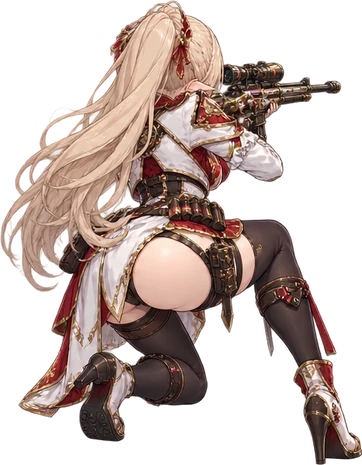
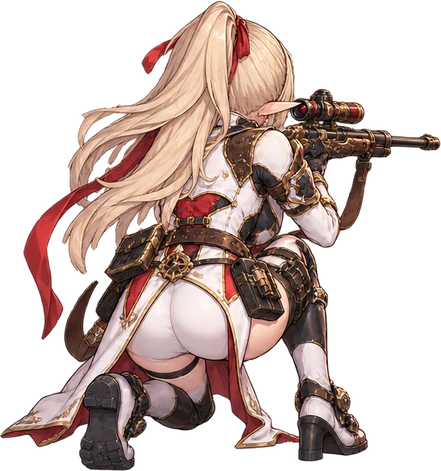
[claude] 엘프 저격수 4포즈 교체(앉아 장전), 포즈 교체 도구, 로그
Claude-Session: https://claude.ai/code/session_01SeZdEYanRwNa7A4etoFxwb

diff --git a/game/index.html b/game/index.html
@@ -20,7 +20,7 @@ let bgB=bg;   // 전투 배경(장마다 바뀜). 메뉴 배경은 bg 그대로
 // 뒷모습 그림이 아직 없어서 뒤쪽이 보이는 포즈를 임시로 3명에게 공통 사용
 const heroImg=loadImg('char1.png');
 // 캐릭터별 포즈 그림 (서기/앉기/장전/쓰러짐). ax=몸 중심, mx,my=총구 위치
-const META={"elf":{"stand":{"w":553,"h":744,"ax":158,"mx":552,"my":118},"kneel":{"w":362,"h":465,"ax":176,"mx":341,"my":86},"reload":{"w":258,"h":744,"ax":117,"mx":150,"my":300},"down":{"w":348,"h":356,"ax":174,"mx":174,"my":200}},"dwarf":{"stand":{"w":533,"h":745,"ax":213,"mx":532,"my":97},"reload":{"w":350,"h":550,"ax":177,"mx":177,"my":220},"kneel":{"w":415,"h":426,"ax":207,"mx":414,"my":80},"down":{"w":782,"h":278,"ax":379,"mx":379,"my":111}},"human":{"stand":{"w":451,"h":745,"ax":185,"mx":450,"my":191},"kneel":{"w":430,"h":438,"ax":204,"mx":429,"my":130},"reload":{"w":372,"h":492,"ax":200,"mx":200,"my":197},"down":{"w":665,"h":230,"ax":331,"mx":331,"my":92}},"fox":{"stand":{"w":452,"h":745,"ax":192,"mx":452,"my":115},"kneel":{"w":403,"h":444,"ax":187,"mx":403,"my":107},"reload":{"w":319,"h":497,"ax":168,"mx":168,"my":199},"down":{"w":667,"h":254,"ax":317,"mx":317,"my":102}},"goblin":{"stand":{"w":359,"h":744,"ax":186,"mx":358,"my":121},"kneel":{"w":387,"h":466,"ax":196,"mx":386,"my":134},"reload":{"w":384,"h":409,"ax":216,"mx":216,"my":163},"down":{"w":612,"h":225,"ax":330,"mx":330,"my":90}},"harpy":{"stand":{"w":435,"h":744,"ax":220,"mx":434,"my":105},"kneel":{"w":424,"h":479,"ax":198,"mx":422,"my":103},"reload":{"w":436,"h":468,"ax":240,"mx":239,"my":187},"down":{"w":704,"h":291,"ax":380,"mx":380,"my":116}},"lamia":{"stand":{"w":434,"h":744,"ax":173,"mx":433,"my":106},"kneel":{"w":455,"h":417,"ax":199,"mx":454,"my":103},"reload":{"w":368,"h":472,"ax":213,"mx":213,"my":188},"down":{"w":676,"h":213,"ax":331,"mx":331,"my":85}},"fmedic":{"stand":{"w":389,"h":744,"ax":190,"mx":387,"my":120},"kneel":{"w":417,"h":482,"ax":205,"mx":415,"my":132},"reload":{"w":364,"h":436,"ax":179,"mx":178,"my":174},"down":{"w":644,"h":225,"ax":352,"mx":351,"my":90}},"mwolf":{"stand":{"w":445,"h":744,"ax":280,"mx":443,"my":107},"kneel":{"w":443,"h":412,"ax":244,"mx":406,"my":110},"reload":{"w":362,"h":351,"ax":158,"mx":157,"my":140},"down":{"w":329,"h":232,"ax":182,"mx":182,"my":92}},"mhuman":{"stand":{"w":435,"h":744,"ax":270,"mx":434,"my":91},"kneel":{"w":428,"h":384,"ax":241,"mx":418,"my":90},"reload":{"w":382,"h":334,"ax":174,"mx":174,"my":133},"down":{"w":324,"h":238,"ax":176,"mx":176,"my":95}},"mdwarf":{"stand":{"w":508,"h":744,"ax":273,"mx":507,"my":75},"kneel":{"w":436,"h":362,"ax":208,"mx":435,"my":58},"reload":{"w":357,"h":288,"ax":167,"mx":166,"my":115},"down":{"w":347,"h":227,"ax":176,"mx":176,"my":90}},"morc":{"stand":{"w":530,"h":744,"ax":268,"mx":529,"my":77},"kneel":{"w":427,"h":371,"ax":202,"mx":425,"my":69},"reload":{"w":369,"h":293,"ax":166,"mx":166,"my":117},"down":{"w":358,"h":243,"ax":201,"mx":201,"my":97}},"melf":{"stand":{"w":544,"h":744,"ax":226,"mx":543,"my":87},"kneel":{"w":518,"h":377,"ax":227,"mx":517,"my":77},"reload":{"w":402,"h":341,"ax":186,"mx":186,"my":136},"down":{"w":341,"h":246,"ax":178,"mx":178,"my":98}},"mlizard":{"stand":{"w":521,"h":744,"ax":204,"mx":519,"my":88},"kneel":{"w":531,"h":397,"ax":265,"mx":529,"my":80},"reload":{"w":371,"h":341,"ax":161,"mx":160,"my":136},"down":{"w":311,"h":266,"ax":164,"mx":164,"my":106}},"mmedic":{"stand":{"w":445,"h":744,"ax":266,"mx":444,"my":73},"kneel":{"w":435,"h":399,"ax":248,"mx":415,"my":83},"reload":{"w":385,"h":335,"ax":176,"mx":176,"my":134},"down":{"w":343,"h":245,"ax":194,"mx":194,"my":98}},"mgoblin":{"stand":{"w":445,"h":744,"ax":259,"mx":444,"my":106},"kneel":{"w":480,"h":386,"ax":273,"mx":460,"my":101},"reload":{"w":393,"h":347,"ax":166,"mx":166,"my":138},"down":{"w":334,"h":221,"ax":186,"mx":185,"my":88}}};
+const META={"elf":{"stand":{"w":426,"h":744,"ax":174,"mx":425,"my":122},"kneel":{"w":441,"h":471,"ax":190,"mx":440,"my":143},"reload":{"w":431,"h":465,"ax":234,"mx":234,"my":186},"down":{"w":643,"h":217,"ax":347,"mx":347,"my":119}},"dwarf":{"stand":{"w":533,"h":745,"ax":213,"mx":532,"my":97},"reload":{"w":350,"h":550,"ax":177,"mx":177,"my":220},"kneel":{"w":415,"h":426,"ax":207,"mx":414,"my":80},"down":{"w":782,"h":278,"ax":379,"mx":379,"my":111}},"human":{"stand":{"w":451,"h":745,"ax":185,"mx":450,"my":191},"kneel":{"w":430,"h":438,"ax":204,"mx":429,"my":130},"reload":{"w":372,"h":492,"ax":200,"mx":200,"my":197},"down":{"w":665,"h":230,"ax":331,"mx":331,"my":92}},"fox":{"stand":{"w":452,"h":745,"ax":192,"mx":452,"my":115},"kneel":{"w":403,"h":444,"ax":187,"mx":403,"my":107},"reload":{"w":319,"h":497,"ax":168,"mx":168,"my":199},"down":{"w":667,"h":254,"ax":317,"mx":317,"my":102}},"goblin":{"stand":{"w":359,"h":744,"ax":186,"mx":358,"my":121},"kneel":{"w":387,"h":466,"ax":196,"mx":386,"my":134},"reload":{"w":384,"h":409,"ax":216,"mx":216,"my":163},"down":{"w":612,"h":225,"ax":330,"mx":330,"my":90}},"harpy":{"stand":{"w":435,"h":744,"ax":220,"mx":434,"my":105},"kneel":{"w":424,"h":479,"ax":198,"mx":422,"my":103},"reload":{"w":436,"h":468,"ax":240,"mx":239,"my":187},"down":{"w":704,"h":291,"ax":380,"mx":380,"my":116}},"lamia":{"stand":{"w":434,"h":744,"ax":173,"mx":433,"my":106},"kneel":{"w":455,"h":417,"ax":199,"mx":454,"my":103},"reload":{"w":368,"h":472,"ax":213,"mx":213,"my":188},"down":{"w":676,"h":213,"ax":331,"mx":331,"my":85}},"fmedic":{"stand":{"w":389,"h":744,"ax":190,"mx":387,"my":120},"kneel":{"w":417,"h":482,"ax":205,"mx":415,"my":132},"reload":{"w":364,"h":436,"ax":179,"mx":178,"my":174},"down":{"w":644,"h":225,"ax":352,"mx":351,"my":90}},"mwolf":{"stand":{"w":445,"h":744,"ax":280,"mx":443,"my":107},"kneel":{"w":443,"h":412,"ax":244,"mx":406,"my":110},"reload":{"w":362,"h":351,"ax":158,"mx":157,"my":140},"down":{"w":329,"h":232,"ax":182,"mx":182,"my":92}},"mhuman":{"stand":{"w":435,"h":744,"ax":270,"mx":434,"my":91},"kneel":{"w":428,"h":384,"ax":241,"mx":418,"my":90},"reload":{"w":382,"h":334,"ax":174,"mx":174,"my":133},"down":{"w":324,"h":238,"ax":176,"mx":176,"my":95}},"mdwarf":{"stand":{"w":508,"h":744,"ax":273,"mx":507,"my":75},"kneel":{"w":436,"h":362,"ax":208,"mx":435,"my":58},"reload":{"w":357,"h":288,"ax":167,"mx":166,"my":115},"down":{"w":347,"h":227,"ax":176,"mx":176,"my":90}},"morc":{"stand":{"w":530,"h":744,"ax":268,"mx":529,"my":77},"kneel":{"w":427,"h":371,"ax":202,"mx":425,"my":69},"reload":{"w":369,"h":293,"ax":166,"mx":166,"my":117},"down":{"w":358,"h":243,"ax":201,"mx":201,"my":97}},"melf":{"stand":{"w":544,"h":744,"ax":226,"mx":543,"my":87},"kneel":{"w":518,"h":377,"ax":227,"mx":517,"my":77},"reload":{"w":402,"h":341,"ax":186,"mx":186,"my":136},"down":{"w":341,"h":246,"ax":178,"mx":178,"my":98}},"mlizard":{"stand":{"w":521,"h":744,"ax":204,"mx":519,"my":88},"kneel":{"w":531,"h":397,"ax":265,"mx":529,"my":80},"reload":{"w":371,"h":341,"ax":161,"mx":160,"my":136},"down":{"w":311,"h":266,"ax":164,"mx":164,"my":106}},"mmedic":{"stand":{"w":445,"h":744,"ax":266,"mx":444,"my":73},"kneel":{"w":435,"h":399,"ax":248,"mx":415,"my":83},"reload":{"w":385,"h":335,"ax":176,"mx":176,"my":134},"down":{"w":343,"h":245,"ax":194,"mx":194,"my":98}},"mgoblin":{"stand":{"w":445,"h":744,"ax":259,"mx":444,"my":106},"kneel":{"w":480,"h":386,"ax":273,"mx":460,"my":101},"reload":{"w":393,"h":347,"ax":166,"mx":166,"my":138},"down":{"w":334,"h":221,"ax":186,"mx":185,"my":88}}};
 const HA={};function heroArt(k){if(HA[k])return HA[k];const m=META[k],o={};for(const q of ['stand','kneel','reload','down'])o[q]=Object.assign({img:loadImg('h_'+k+'_'+q+'.webp')},m[q]);return HA[k]=o}
 function poseOf(h,i){return h.hp<=0?'down':(h.rl>0?'reload':(i==sel&&fireHeld?'kneel':'stand'))}
 const heroes=[];

diff --git a/tools/replace_hero_poses.py b/tools/replace_hero_poses.py
@@ -1,0 +1,58 @@
+"""투명 배경 4포즈 시트(서서·앉아·장전·쓰러짐)를 잘라 game/h_<키>_<포즈>.webp 로 저장하고 META 한 줄을 출력한다.
+사용: python3 tools/replace_hero_poses.py <시트.png> <영웅키> [기준 서서 높이=744]
+후광(반투명 번짐)은 알파 240 미만을 걷어내 제거한다."""
+import sys, json
+import numpy as np
+from PIL import Image
+from scipy import ndimage as ndi
+
+sheet, key = sys.argv[1], sys.argv[2]
+STAND_H = int(sys.argv[3]) if len(sys.argv) > 3 else 744
+A = np.array(Image.open(sheet).convert('RGBA'))
+alpha = A[:, :, 3].astype(np.uint8)
+core = alpha >= 240
+core = ndi.binary_opening(core, iterations=1)
+# 한 포즈로 묶기: 크게 팽창해서 덩어리를 찾는다
+glue = ndi.binary_dilation(core, iterations=4)
+lab, n = ndi.label(glue)
+objs = ndi.find_objects(lab)
+cand = []
+for i, sl in enumerate(objs, 1):
+    area = int((core & (lab == i)).sum())
+    if area > 6000:
+        cand.append((area, i, sl))
+cand.sort(key=lambda t: -t[0])
+if len(cand) != 4:
+    print('덩어리 수가', len(cand), '개 — 4개여야 합니다', [(a, s) for a, _, s in cand]); sys.exit(1)
+# 위치로 포즈 배정: 가장 왼쪽=서서, 그 옆(위)=앉아, 오른쪽(위)=장전, 아래=쓰러짐
+def cy(sl): return (sl[0].start + sl[0].stop) / 2
+def cx(sl): return (sl[1].start + sl[1].stop) / 2
+items = [(i, sl) for _, i, sl in cand]
+down = max(items, key=lambda t: cy(t[1]))
+rest = sorted([t for t in items if t is not down], key=lambda t: cx(t[1]))
+poses = {'stand': rest[0], 'kneel': rest[1], 'reload': rest[2], 'down': down}
+raw = {}
+for q, (i, sl) in poses.items():
+    m = ndi.binary_dilation(core & (lab == i), iterations=2)       # 가장자리 안티앨리어싱 살리기
+    a = np.where(m, alpha, 0).astype(np.uint8)
+    rgba = A.copy(); rgba[:, :, 3] = a
+    ys, xs = np.where(a > 0)
+    box = (xs.min(), ys.min(), xs.max() + 1, ys.max() + 1)
+    raw[q] = (Image.fromarray(rgba).crop(box), a[box[1]:box[3], box[0]:box[2]])
+f = STAND_H / raw['stand'][0].height
+meta = {}
+for q, (im, a) in raw.items():
+    w, h = round(im.width * f), round(im.height * f)
+    out = im.resize((w, h), Image.LANCZOS)
+    out.save(f'game/h_{key}_{q}.webp', quality=92, method=6)
+    aa = np.array(out)[:, :, 3] > 40
+    ys, xs = np.where(aa)
+    if q in ('stand', 'kneel'):
+        low = ys > h * 0.45
+        ax = int(xs[low].mean()); mx = int(xs.max()); my = int(ys[xs >= xs.max() - 6].mean())
+    elif q == 'reload':
+        ax = int(xs.mean()); mx = ax; my = int(h * 0.4)
+    else:
+        ax = int(xs.mean()); mx = ax; my = int(h * 0.55)
+    meta[q] = {"w": w, "h": h, "ax": ax, "mx": mx, "my": my}
+print(json.dumps({key: meta}, ensure_ascii=False, separators=(',', ':')))

diff --git a/inbox/log.md b/inbox/log.md
@@ -19,3 +19,8 @@
 ## [claude] 폰에서 캐릭터 투명/적 보라색 버그
 - 원인: 폰 로컬 서버가 이미지 요청을 놓치면(실패) 다시 받지 않아 영웅은 안 그려지고 적은 보라색 임시 도형으로 표시됨.
 - 수정: 이미지 로드 실패 시 최대 6회 자동 재시도(요청 절반을 일부러 실패시킨 시험에서도 전부 복구 확인).
+
+## [claude] 장별 배경·엘프 저격수 교체
+- 전투·대사 장면 배경을 장별로 연결: 여성국 F1 항구(bg2)/F2 공장/F3 낮/F4 야간/F5 석양, 남성국 M1 낮/M2 달밤/M3 슬럼/M4 폐허/M5(M1 재사용, 가안), 11장 마계. 표는 meta.js의 BGMAP.
+- 엘프 저격수(실비아) 4포즈를 새 시트로 교체(서서 장전하던 문제 수정, 의상 통일). tools/replace_hero_poses.py 로 재생성 가능.
+- 오브제 시트·마계 병사·여왕 시트는 assets_src/sheets 에 보관(아직 게임 미적용).
